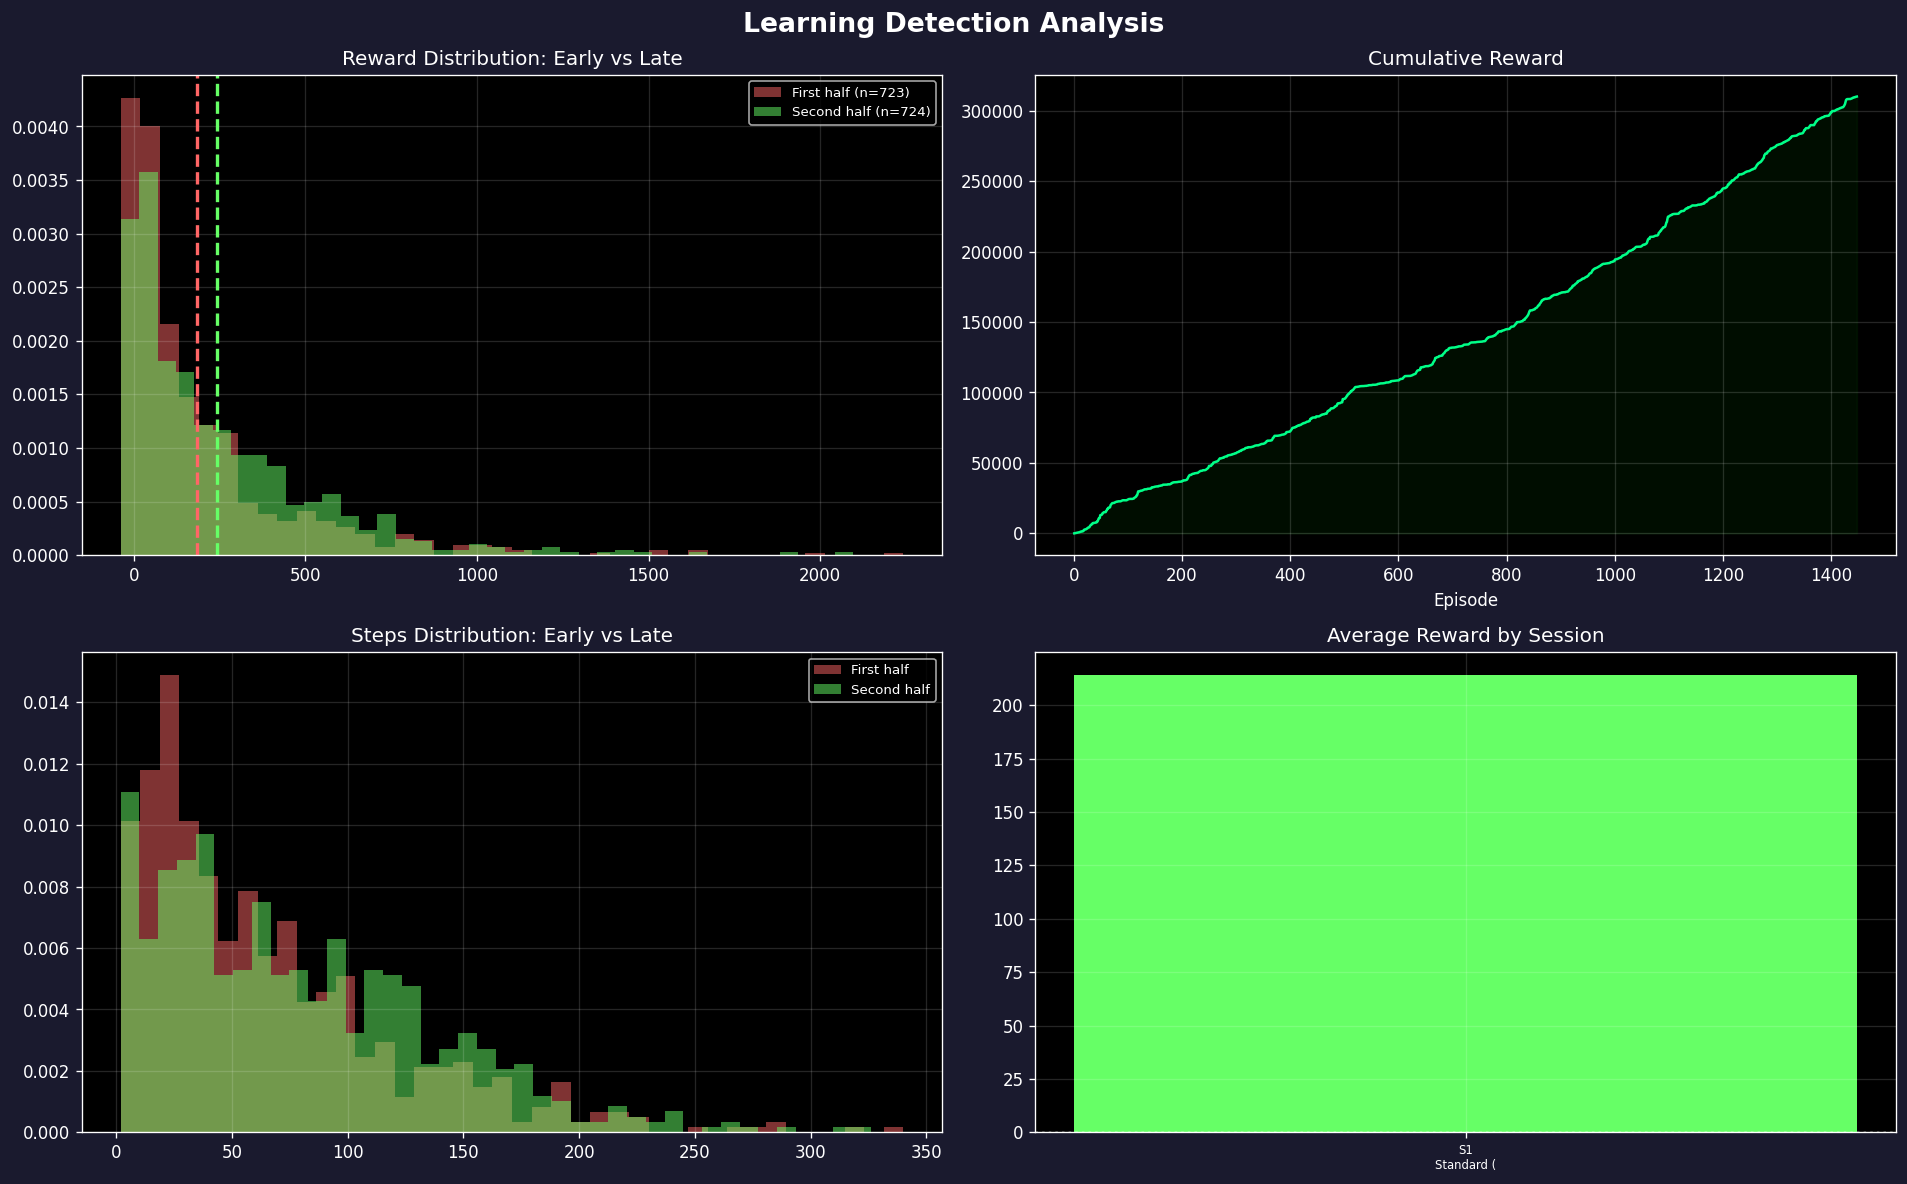
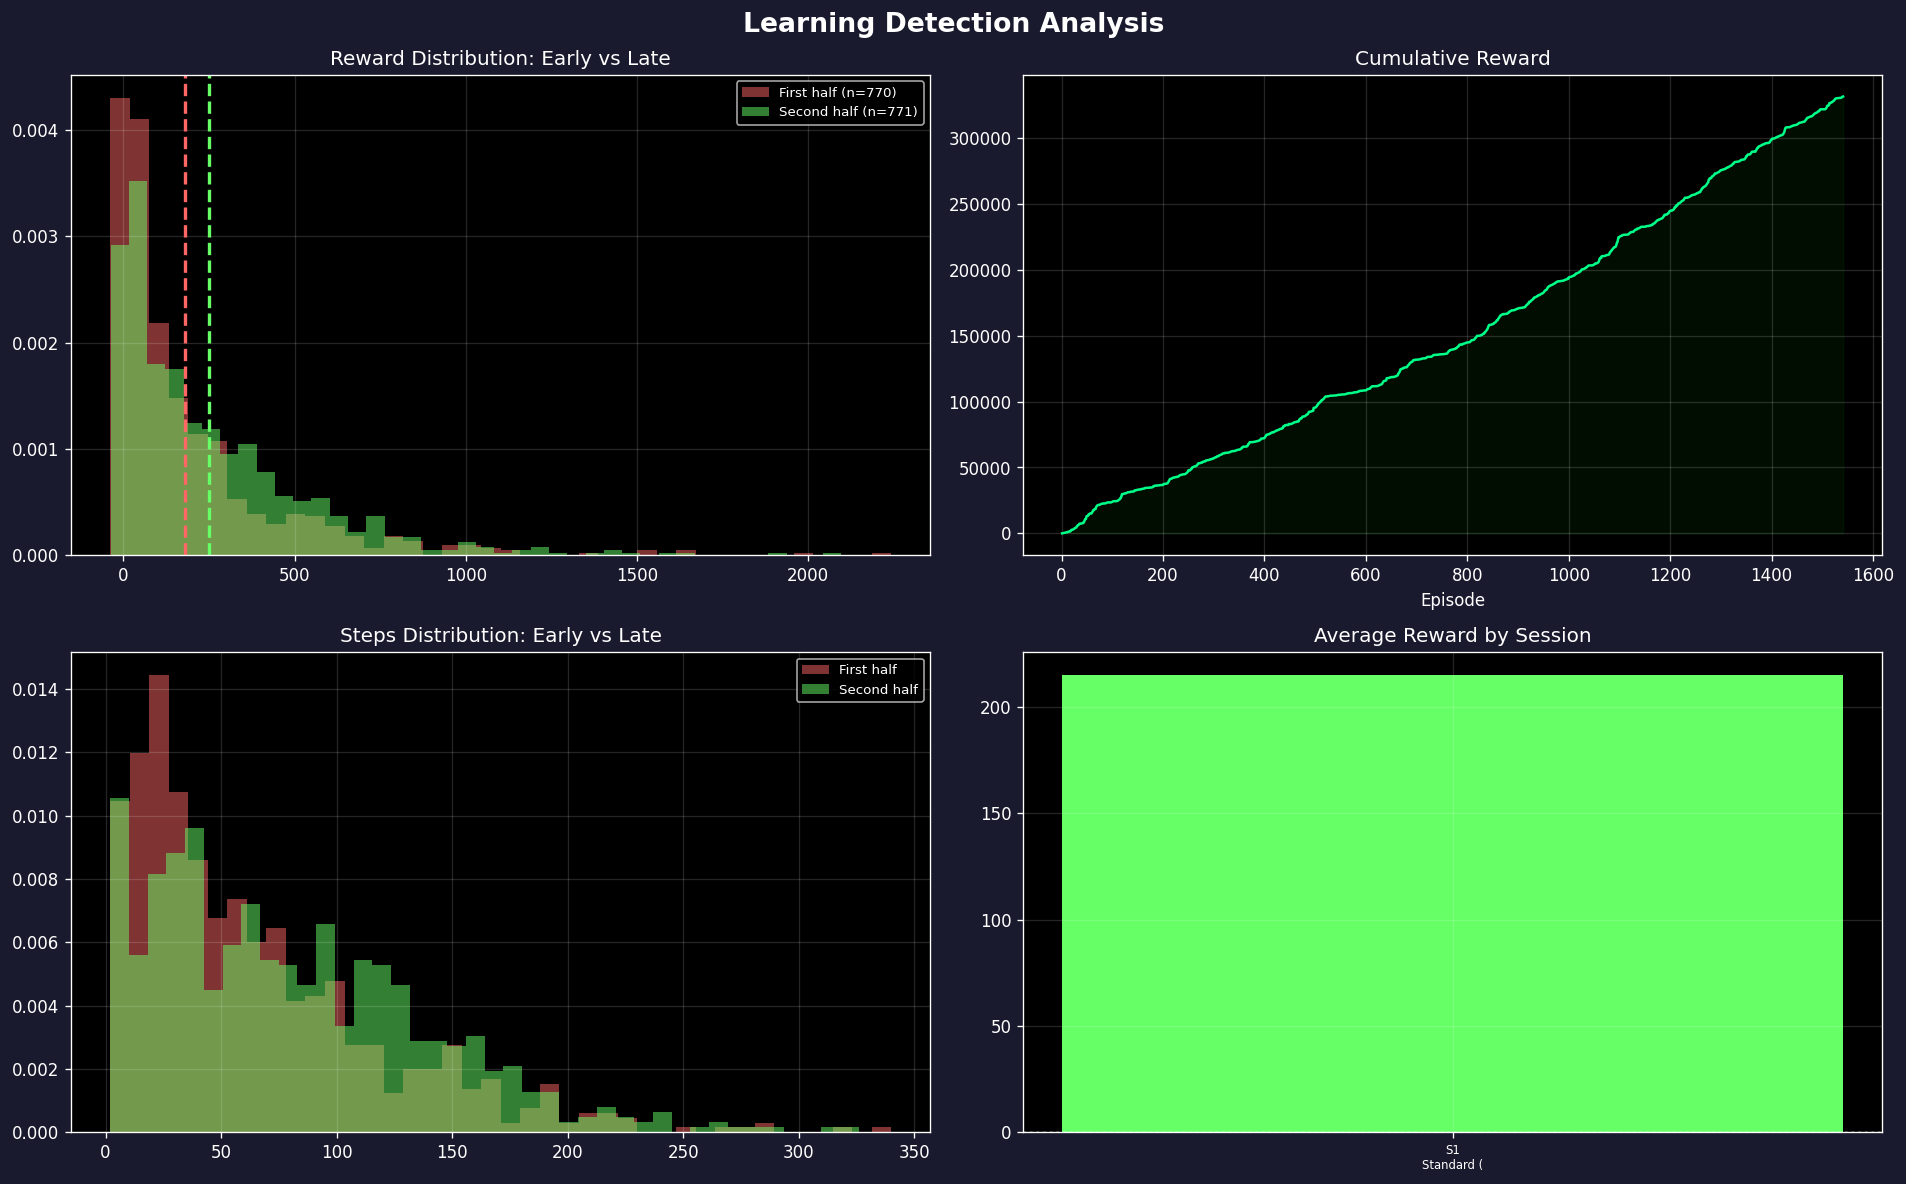
stats

diff --git a/gen2/progress_report.md b/gen2/progress_report.md
@@ -1,7 +1,7 @@
 # Slither.io Bot - Training Progress Report
 
-**Generated:** 2026-02-13 00:25:54  
-**Total Episodes:** 1447  
+**Generated:** 2026-02-13 00:35:58  
+**Total Episodes:** 1541  
 **Training Sessions:** 1
 
 ## Verdict: LEARNING (Confidence: 65%)
@@ -9,16 +9,16 @@
 **Goal Feasibility:** POSSIBLE (25-60% chance) with continued training
 
 ### Positive Signals
-- Rewards improving: +58.1 (2nd half vs 1st half)
+- Rewards improving: +68.1 (2nd half vs 1st half)
 
 ## Key Statistics
 
 | Metric | Mean | Std | Min | Max | P50 | P95 |
 |--------|------|-----|-----|-----|-----|-----|
-| Reward | 214.23 | 279.43 | -38.58 | 2242.28 | 113.63 | 754.78 |
-| Steps | 71.35 | 57.05 | 2.00 | 340.00 | 57.00 | 180.00 |
-| Food | 29.31 | 11.30 | 0.00 | 84.00 | 27.00 | 50.70 |
-| Loss | 11.72 | 31.24 | 0.53 | 392.24 | 6.90 | 20.13 |
+| Reward | 215.15 | 278.37 | -38.58 | 2242.28 | 116.05 | 756.32 |
+| Steps | 71.67 | 56.89 | 2.00 | 340.00 | 58.00 | 180.00 |
+| Food | 29.33 | 11.29 | 0.00 | 84.00 | 27.00 | 50.00 |
+| Loss | 11.58 | 30.31 | 0.53 | 392.24 | 7.06 | 19.96 |
 
 ## Goal Progress
 
@@ -31,7 +31,7 @@
 
 | # | Style | Episodes | Avg Reward | Avg Steps |
 |---|-------|----------|------------|----------|
-| 1 | Standard (Curriculum) | 1-1447 | 214.2 | 71 |
+| 1 | Standard (Curriculum) | 1-1541 | 215.2 | 72 |
 
 ## Recommendations
 
